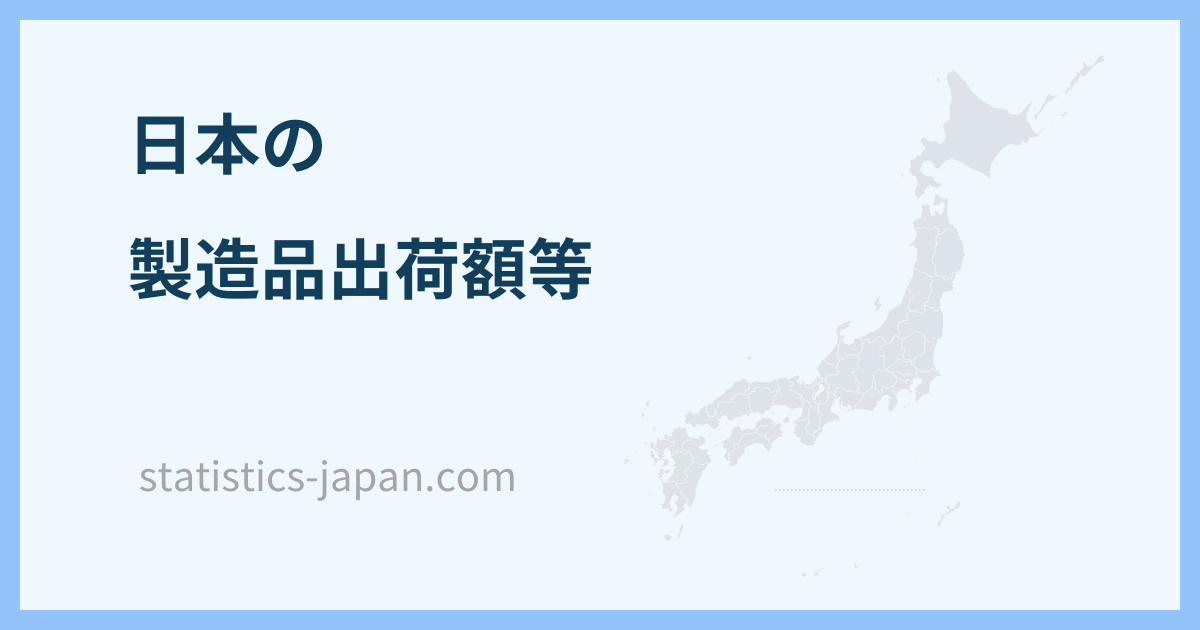
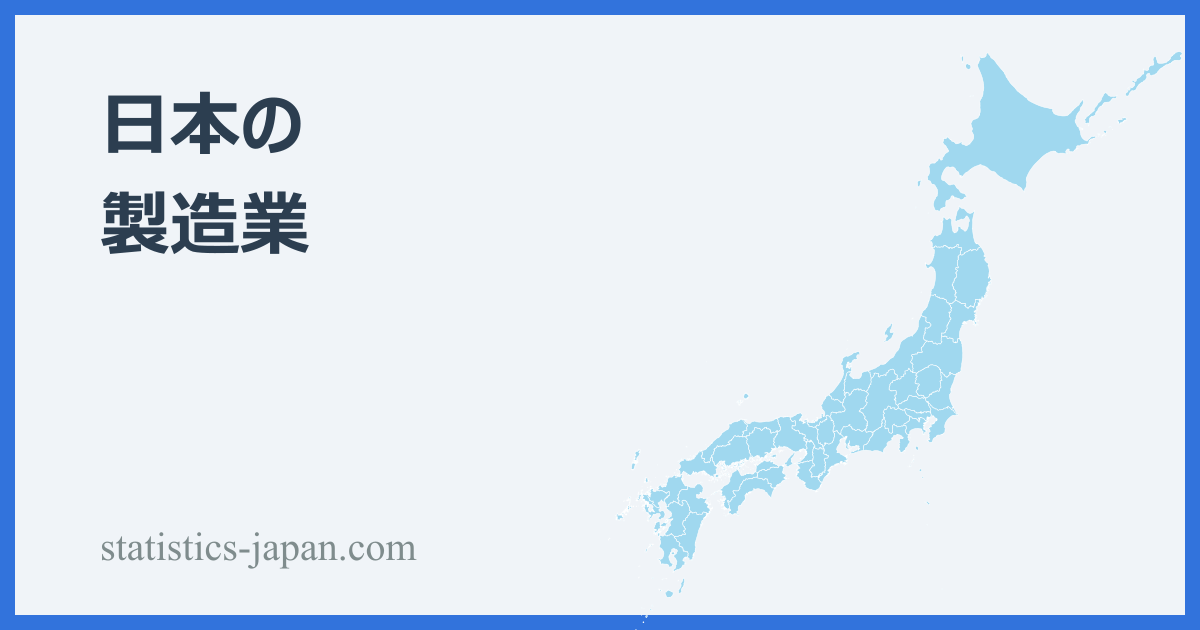
test

diff --git a/src/utils/ogp/modules/generateJapanSVG.ts b/src/utils/ogp/modules/generateJapanSVG.ts
@@ -1,0 +1,107 @@
+/* eslint-disable @typescript-eslint/ban-ts-comment */
+// @ts-nocheck
+import * as d3 from 'd3'
+import { JSDOM } from 'jsdom'
+import * as topojson from 'topojson-client'
+
+import geoShapeData from 'data/topojson/prefecture.json'
+
+export default function generateJapanSVG(
+  title: string,
+  mapColor: string = '#a0d8ef'
+): string {
+  // JSDOMを使用して仮想DOMを作成
+  const dom = new JSDOM('<!DOCTYPE html><body></body>')
+  const document = dom.window.document
+
+  // SVG要素の作成
+  const width = 1200
+  const height = 630
+  const svg = d3
+    .select(document.body)
+    .append('svg')
+    .attr('width', width)
+    .attr('height', height)
+    .attr('xmlns', 'http://www.w3.org/2000/svg')
+
+  // 背景色を設定
+  svg
+    .append('rect')
+    .attr('width', width)
+    .attr('height', height)
+    .attr('fill', '#f0f4f8')
+
+  // 枠線を追加
+  svg
+    .append('rect')
+    .attr('x', 5)
+    .attr('y', 5)
+    .attr('width', width - 10)
+    .attr('height', height - 10)
+    .attr('fill', 'none')
+    .attr('stroke', '#3273dc')
+    .attr('stroke-width', 20)
+
+  // 地図用のグループを作成
+  const mapWidth = 800
+  const mapHeight = 700
+  const mapGroup = svg
+    .append('g')
+    .attr(
+      'transform',
+      `translate(${width - mapWidth + 50}, ${(height - mapHeight) / 2 + 20})`
+    )
+
+  // 地図投影の設定
+  const projection = d3
+    .geoMercator()
+    .center([137, 38])
+    .scale(1600)
+    .translate([mapWidth / 2, mapHeight / 2])
+
+  const path = d3.geoPath().projection(projection)
+
+  const geojson = topojson.feature(geoShapeData, geoShapeData.objects.pref)
+
+  // 地図の描画
+  mapGroup
+    .selectAll('path')
+    .data(geojson.features)
+    .enter()
+    .append('path')
+    .attr('d', path)
+    .attr('fill', mapColor)
+    .attr('stroke', '#ffffff')
+    .attr('stroke-width', 0.5)
+
+  // タイトルを追加（2行に分けて表示）
+  const titleGroup = svg.append('g').attr('transform', 'translate(100, 150)')
+
+  titleGroup
+    .append('text')
+    .attr('y', 0)
+    .attr('font-size', '70px')
+    .attr('font-weight', 'bold')
+    .attr('fill', '#2c3e50')
+    .text('日本の')
+
+  titleGroup
+    .append('text')
+    .attr('y', 100) // 2行目の位置を調整
+    .attr('font-size', '70px')
+    .attr('font-weight', 'bold')
+    .attr('fill', '#2c3e50')
+    .text(title)
+
+  // 左下にウォーターマークを追加
+  svg
+    .append('text')
+    .attr('x', 100)
+    .attr('y', height - 70)
+    .attr('font-size', '40px')
+    .attr('fill', '#7f8c8d')
+    .text('statistics-japan.com')
+
+  // SVGを文字列として返却
+  return document.body.innerHTML
+}

diff --git a/src/views/miningindustry/products/japan.tsx b/src/views/miningindustry/products/japan.tsx
@@ -6,6 +6,7 @@ import Grid from '@mui/material/Grid'
 import Breadcrumbs from 'components/breadcrumbs/Breadcrumbs'
 import CircularProgressViews from 'components/progress/CircularProgressViews'
 
+import { actionSaveJapan } from 'actions/saveJapan'
[2 lines of base64/hex data omitted]
 import DashboardProductShipmentAmount from 'sections/miningindustry/products/DashboardProductShipmentAmount'
@@ -20,6 +21,9 @@ interface Props {
 export default async function JapanView({ routerProps }: Props) {
   try {
     const breadcrumbsProps = await handleProps(routerProps).breadcrumbsProps()
+
+    const title = breadcrumbsProps.currentMenu.menuTitle
+    await actionSaveJapan(title, routerProps)
 
     const currentPrefecture = {
       prefCode: '00000',

diff --git a/src/utils/ogp/modules/saveJapanPNG.ts b/src/utils/ogp/modules/saveJapanPNG.ts
@@ -1,0 +1,41 @@
+import path from 'path'
+
+import sharp from 'sharp'
+
+import { RouterProps } from 'utils/props'
+
+import generateJapanSVG from './generateJapanSVG'
+
+export interface D3MapChartSeries {
+  areaCode: string
+  areaName: string
+  value: number
+  unit: string
+}
+
+function createFilePath(routerProps: RouterProps): string {
+  const { fieldId, menuId, kindId } = routerProps
+  return path.join(
+    process.cwd(),
+    'public',
+    'ogp',
+    fieldId,
+    menuId,
+    kindId,
+    '00000.png'
+  )
+}
+
+export default async function saveJapanPNG(
+  title: string,
+  routerProps: RouterProps
+) {
+  // SVGを生成
+  const svgString = await generateJapanSVG(title)
+
+  // SVGをPNGに変換して保存
+  const pngFilePath = createFilePath(routerProps)
+  await sharp(Buffer.from(svgString)).png().toFile(pngFilePath)
+
+  return
+}

diff --git a/src/utils/ogp/index.ts b/src/utils/ogp/index.ts
@@ -1,8 +1,9 @@
 import { CardProps, RouterProps } from 'utils/props'
 import { RankingValueType } from 'utils/table/calcRankingValues'
 
+import saveJapanPNG from './modules/saveJapanPNG'
 import savePrefecturePNG from './modules/savePrefecturePNG'
-import { savePrefectureRankPNG } from './modules/savePrefectureRankPNG'
+import savePrefectureRankPNG from './modules/savePrefectureRankPNG'
 
 const handleOGP = () => {
   return {
@@ -13,6 +14,8 @@ const handleOGP = () => {
     ) => await savePrefectureRankPNG(title, cardProps, values),
     savePrefectureOGP: async (title: string, routerProps: RouterProps) =>
       await savePrefecturePNG(title, routerProps),
+    saveJapanOGP: async (title: string, routerProps: RouterProps) =>
+      await saveJapanPNG(title, routerProps),
   }
 }
 

diff --git a/src/utils/ogp/modules/savePrefectureRankPNG.ts b/src/utils/ogp/modules/savePrefectureRankPNG.ts
@@ -34,13 +34,13 @@ const generateFileName = (cardProps: CardProps) => {
   return filePath
 }
 
-export async function savePrefectureRankPNG(
+export default async function savePrefectureRankPNG(
   title: string,
   cardProps: CardProps,
   values: RankingValueType[]
 ) {
   // SVGを生成
-  const svgString = generatePrefectureRankSVG(title, cardProps, values)
+  const svgString = await generatePrefectureRankSVG(title, cardProps, values)
 
   // SVGをPNGに変換して保存
   const pngFilePath = generateFileName(cardProps)

diff --git a/src/actions/saveJapan.ts b/src/actions/saveJapan.ts
@@ -1,0 +1,13 @@
+'use server'
+
+import handleOGP from 'utils/ogp'
+import { RouterProps } from 'utils/props'
+
+export async function actionSaveJapan(title: string, routerProps: RouterProps) {
+  if (process.env.NODE_ENV === 'development') {
+    // OGP画像を生成・保存
+    const { saveJapanOGP } = handleOGP()
+    await saveJapanOGP(title, routerProps)
+  }
+  return
+}
